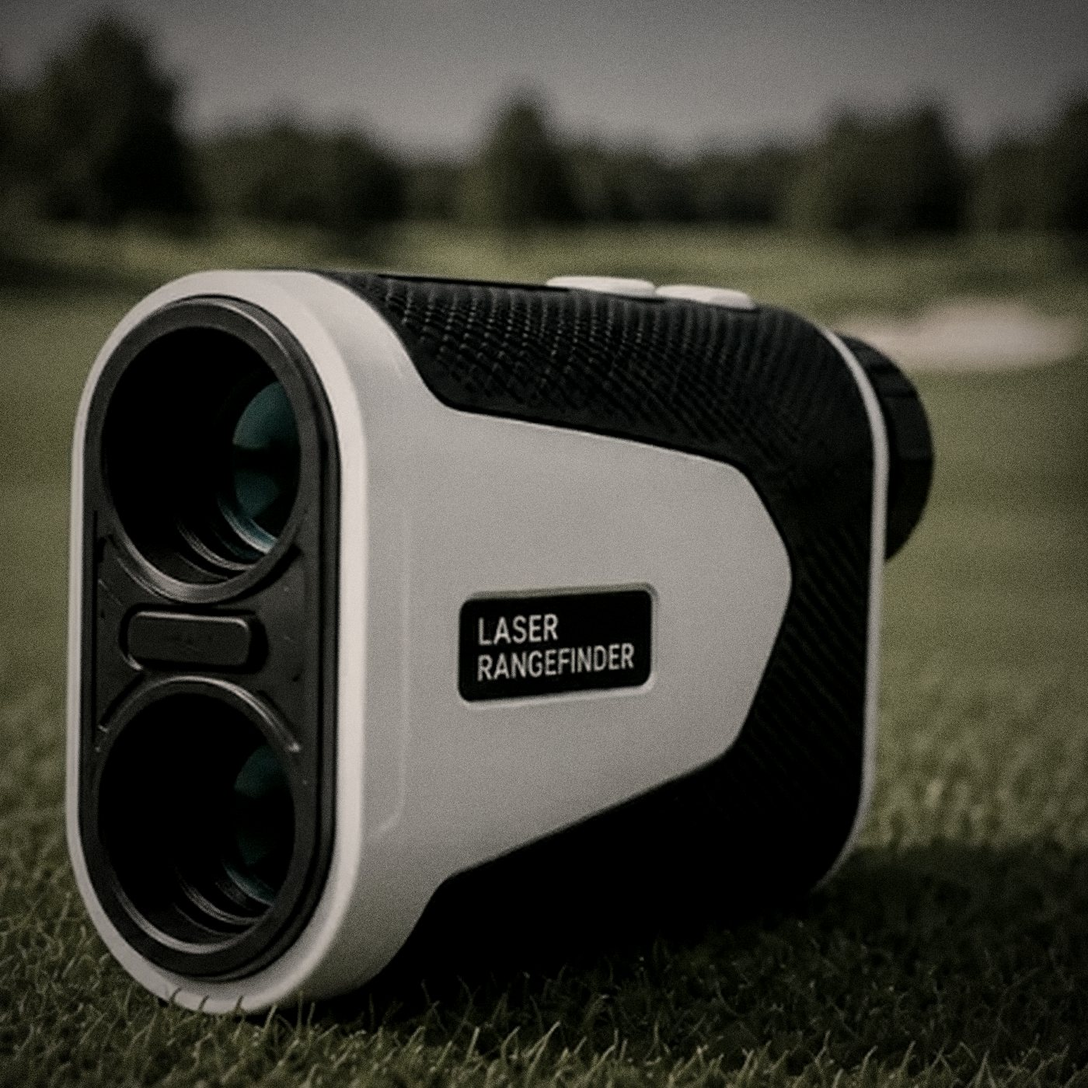
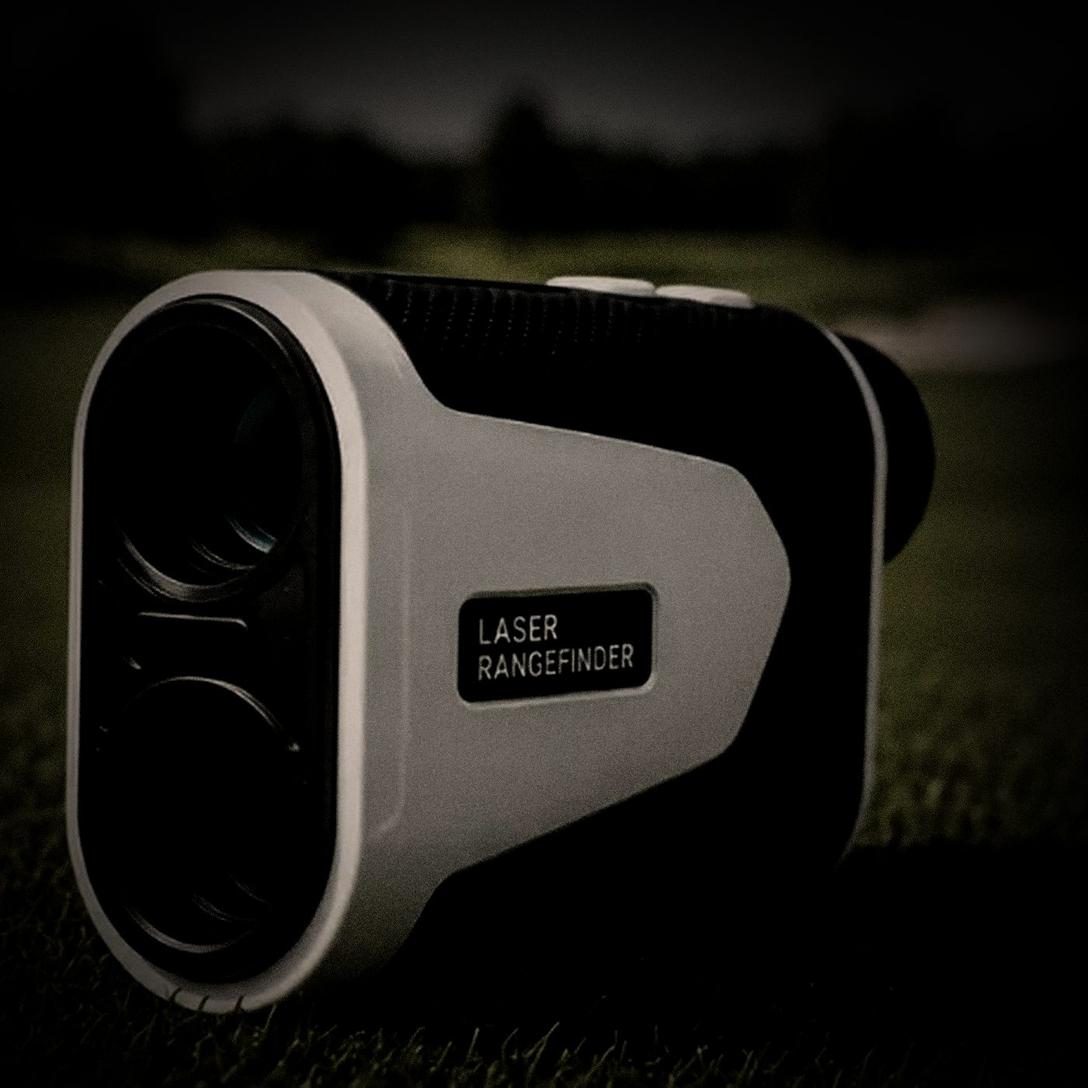
Objects: mehr Schwarzraum, Bilder mit Crushed Blacks, Putter-Zeile neu; Footer-Spruch auf allen Seiten entfernt
Claude-Session: https://claude.ai/code/session_0198X4sySa9u7qvNYtzsHCPp

diff --git a/golf/objects.html b/golf/objects.html
@@ -6,7 +6,7 @@
 <title>Objects · xello golf</title>
 <meta name="robots" content="noindex">
 <meta name="theme-color" content="#082D25">
-<link rel="stylesheet" href="../site.css?v=50093cf2">
+<link rel="stylesheet" href="../site.css?v=62a73574">
 
 </head>
 <body class="dark objects">
@@ -31,7 +31,7 @@
     <figure class="g-piece obj">
       <span class="g-img"><img src="../img/golf-objects-putter.jpg" alt="Schwarzer Putter hinter einem Ball auf dem Grün" style="object-position:50% 50%"></span>
       <p class="obj-name">Der Putter</p>
-      <blockquote class="g-line">Der kürzeste Schlag<br>entscheidet am längsten.</blockquote>
+      <blockquote class="g-line">Ab hier zählt<br>keine Kraft mehr.</blockquote>
       <p class="obj-info"><a href="https://www.pxg.com" target="_blank" rel="noopener">PXG</a></p>
     </figure>
     <figure class="g-piece obj">
@@ -59,7 +59,6 @@
 <nav class="toc" aria-label="Kapitel"><a href="../golf/people.html">01 — People</a><a href="../golf/stories.html">02 — Stories</a><a href="../golf/places.html">03 — Places</a><a href="../golf/still.html" >04 — Still</a><a href="../golf/originals.html">05 — Originals</a><a href="../golf/objects.html" aria-current=page>06 — Objects</a></nav>
 <footer class="foot" id="kontakt">
   <span class="mark x"><svg aria-hidden="true" xmlns="http://www.w3.org/2000/svg" viewBox="104 198 420 368"><path fill="currentColor" fill-rule="evenodd" d="M108.4,562.1C108.2,561.9 108.0,557.9 108.0,553.3L108.0,545.0L114.8,545.0C124.8,545.0 134.4,542.6 144.5,537.6C164.7,527.6 175.4,516.6 222.6,457.0C262.6,406.5 272.3,394.1 273.4,392.3C273.8,391.5 268.9,383.8 261.2,372.8C254.1,362.7 234.0,333.8 216.5,308.5C167.5,237.6 161.5,230.2 148.6,224.1C140.9,220.5 134.0,219.0 124.5,219.0L117.0,219.0L117.0,210.0L117.0,201.0L205.5,200.8C254.2,200.8 294.6,200.7 295.2,200.6C296.2,200.5 296.5,202.9 296.5,209.3L296.5,218.1L289.0,218.5C280.1,218.9 275.2,220.8 271.5,225.2C269.1,228.0 268.8,229.0 269.2,234.1C269.5,238.6 270.5,241.1 274.2,247.1C283.9,262.6 329.8,327.0 331.1,327.0C332.5,327.0 362.4,290.4 379.9,267.3C398.2,243.1 400.1,234.3 389.1,224.8C383.8,220.2 376.6,218.0 367.4,218.0L360.0,218.0L360.0,209.1L360.0,200.1L369.2,200.5C374.3,200.8 405.8,201.0 439.2,201.0L500.0,201.0L500.0,209.5L500.0,218.0L496.1,218.0C490.1,218.0 477.7,220.6 471.0,223.3C452.2,230.9 440.2,242.7 395.5,297.5C385.6,309.6 371.5,326.9 364.0,335.8C356.6,344.8 350.1,352.7 349.6,353.4C349.1,354.2 352.1,359.3 358.7,368.5C364.2,376.2 381.6,401.4 397.5,424.5C428.8,470.0 452.7,503.8 462.6,516.6C477.4,535.7 490.9,543.4 512.0,544.9L520.5,545.5L520.5,553.8L520.5,562.1L424.7,562.3L329.0,562.5L329.0,554.9L329.0,547.3L336.2,546.7C350.3,545.6 359.6,540.0 361.9,531.2C364.3,522.5 361.1,516.2 335.7,479.0C317.9,452.8 295.4,420.3 294.0,418.7C292.7,417.2 234.3,491.2 223.7,507.5C212.9,524.3 213.8,534.3 226.7,540.6C231.8,543.1 233.9,543.5 244.5,544.0L256.5,544.5L256.5,553.3L256.5,562.0L182.7,562.3C142.1,562.4 108.6,562.3 108.4,562.1Z"/></svg></span>
-  <div class="slogan">Feel the moments.</div>
   <nav aria-label="Rechtliches"><a class="crew" href="../golf/collective.html">The Xello Collective</a><span>·</span><a href="mailto:info@xello.de">Kontakt</a><span>·</span><a href="../impressum.html">Impressum</a><span>·</span><a href="../datenschutz.html">Datenschutz</a></nav>
   <a class="home" href="../golf.html">xello golf</a>
 </footer>

diff --git a/golf/originals.html b/golf/originals.html
@@ -5,7 +5,7 @@
 <meta name="viewport" content="width=device-width,initial-scale=1,viewport-fit=cover">
 <title>Originals · xello golf</title>
 <meta name="theme-color" content="#082D25">
-<link rel="stylesheet" href="../site.css?v=50093cf2">
+<link rel="stylesheet" href="../site.css?v=62a73574">
 
 </head>
 <body class="dark">
@@ -31,7 +31,6 @@
 <nav class="toc" aria-label="Kapitel"><a href="../golf/people.html">01 — People</a><a href="../golf/stories.html">02 — Stories</a><a href="../golf/places.html">03 — Places</a><a href="../golf/still.html">04 — Still</a><a href="../golf/originals.html" aria-current=page>05 — Originals</a><a href="../golf/objects.html">06 — Objects</a></nav>
 <footer class="foot" id="kontakt">
   <span class="mark x"><svg aria-hidden="true" xmlns="http://www.w3.org/2000/svg" viewBox="104 198 420 368"><path fill="currentColor" fill-rule="evenodd" d="M108.4,562.1C108.2,561.9 108.0,557.9 108.0,553.3L108.0,545.0L114.8,545.0C124.8,545.0 134.4,542.6 144.5,537.6C164.7,527.6 175.4,516.6 222.6,457.0C262.6,406.5 272.3,394.1 273.4,392.3C273.8,391.5 268.9,383.8 261.2,372.8C254.1,362.7 234.0,333.8 216.5,308.5C167.5,237.6 161.5,230.2 148.6,224.1C140.9,220.5 134.0,219.0 124.5,219.0L117.0,219.0L117.0,210.0L117.0,201.0L205.5,200.8C254.2,200.8 294.6,200.7 295.2,200.6C296.2,200.5 296.5,202.9 296.5,209.3L296.5,218.1L289.0,218.5C280.1,218.9 275.2,220.8 271.5,225.2C269.1,228.0 268.8,229.0 269.2,234.1C269.5,238.6 270.5,241.1 274.2,247.1C283.9,262.6 329.8,327.0 331.1,327.0C332.5,327.0 362.4,290.4 379.9,267.3C398.2,243.1 400.1,234.3 389.1,224.8C383.8,220.2 376.6,218.0 367.4,218.0L360.0,218.0L360.0,209.1L360.0,200.1L369.2,200.5C374.3,200.8 405.8,201.0 439.2,201.0L500.0,201.0L500.0,209.5L500.0,218.0L496.1,218.0C490.1,218.0 477.7,220.6 471.0,223.3C452.2,230.9 440.2,242.7 395.5,297.5C385.6,309.6 371.5,326.9 364.0,335.8C356.6,344.8 350.1,352.7 349.6,353.4C349.1,354.2 352.1,359.3 358.7,368.5C364.2,376.2 381.6,401.4 397.5,424.5C428.8,470.0 452.7,503.8 462.6,516.6C477.4,535.7 490.9,543.4 512.0,544.9L520.5,545.5L520.5,553.8L520.5,562.1L424.7,562.3L329.0,562.5L329.0,554.9L329.0,547.3L336.2,546.7C350.3,545.6 359.6,540.0 361.9,531.2C364.3,522.5 361.1,516.2 335.7,479.0C317.9,452.8 295.4,420.3 294.0,418.7C292.7,417.2 234.3,491.2 223.7,507.5C212.9,524.3 213.8,534.3 226.7,540.6C231.8,543.1 233.9,543.5 244.5,544.0L256.5,544.5L256.5,553.3L256.5,562.0L182.7,562.3C142.1,562.4 108.6,562.3 108.4,562.1Z"/></svg></span>
-  <div class="slogan">Feel the moments.</div>
   <nav aria-label="Rechtliches"><a class="crew" href="../golf/collective.html">The Xello Collective</a><span>·</span><a href="mailto:info@xello.de">Kontakt</a><span>·</span><a href="../impressum.html">Impressum</a><span>·</span><a href="../datenschutz.html">Datenschutz</a></nav>
   <a class="home" href="../golf.html">xello golf</a>
 </footer>

diff --git a/golf/stories.html b/golf/stories.html
@@ -5,7 +5,7 @@
 <meta name="viewport" content="width=device-width,initial-scale=1,viewport-fit=cover">
 <title>Stories · xello golf</title>
 <meta name="theme-color" content="#082D25">
-<link rel="stylesheet" href="../site.css?v=50093cf2">
+<link rel="stylesheet" href="../site.css?v=62a73574">
 
 </head>
 <body>
@@ -28,7 +28,6 @@
 <nav class="toc" aria-label="Kapitel"><a href="../golf/people.html">01 — People</a><a href="../golf/stories.html" aria-current=page>02 — Stories</a><a href="../golf/places.html">03 — Places</a><a href="../golf/still.html">04 — Still</a><a href="../golf/originals.html">05 — Originals</a><a href="../golf/objects.html">06 — Objects</a></nav>
 <footer class="foot" id="kontakt">
   <span class="mark x"><svg aria-hidden="true" xmlns="http://www.w3.org/2000/svg" viewBox="104 198 420 368"><path fill="currentColor" fill-rule="evenodd" d="M108.4,562.1C108.2,561.9 108.0,557.9 108.0,553.3L108.0,545.0L114.8,545.0C124.8,545.0 134.4,542.6 144.5,537.6C164.7,527.6 175.4,516.6 222.6,457.0C262.6,406.5 272.3,394.1 273.4,392.3C273.8,391.5 268.9,383.8 261.2,372.8C254.1,362.7 234.0,333.8 216.5,308.5C167.5,237.6 161.5,230.2 148.6,224.1C140.9,220.5 134.0,219.0 124.5,219.0L117.0,219.0L117.0,210.0L117.0,201.0L205.5,200.8C254.2,200.8 294.6,200.7 295.2,200.6C296.2,200.5 296.5,202.9 296.5,209.3L296.5,218.1L289.0,218.5C280.1,218.9 275.2,220.8 271.5,225.2C269.1,228.0 268.8,229.0 269.2,234.1C269.5,238.6 270.5,241.1 274.2,247.1C283.9,262.6 329.8,327.0 331.1,327.0C332.5,327.0 362.4,290.4 379.9,267.3C398.2,243.1 400.1,234.3 389.1,224.8C383.8,220.2 376.6,218.0 367.4,218.0L360.0,218.0L360.0,209.1L360.0,200.1L369.2,200.5C374.3,200.8 405.8,201.0 439.2,201.0L500.0,201.0L500.0,209.5L500.0,218.0L496.1,218.0C490.1,218.0 477.7,220.6 471.0,223.3C452.2,230.9 440.2,242.7 395.5,297.5C385.6,309.6 371.5,326.9 364.0,335.8C356.6,344.8 350.1,352.7 349.6,353.4C349.1,354.2 352.1,359.3 358.7,368.5C364.2,376.2 381.6,401.4 397.5,424.5C428.8,470.0 452.7,503.8 462.6,516.6C477.4,535.7 490.9,543.4 512.0,544.9L520.5,545.5L520.5,553.8L520.5,562.1L424.7,562.3L329.0,562.5L329.0,554.9L329.0,547.3L336.2,546.7C350.3,545.6 359.6,540.0 361.9,531.2C364.3,522.5 361.1,516.2 335.7,479.0C317.9,452.8 295.4,420.3 294.0,418.7C292.7,417.2 234.3,491.2 223.7,507.5C212.9,524.3 213.8,534.3 226.7,540.6C231.8,543.1 233.9,543.5 244.5,544.0L256.5,544.5L256.5,553.3L256.5,562.0L182.7,562.3C142.1,562.4 108.6,562.3 108.4,562.1Z"/></svg></span>
-  <div class="slogan">Feel the moments.</div>
   <nav aria-label="Rechtliches"><a class="crew" href="../golf/collective.html">The Xello Collective</a><span>·</span><a href="mailto:info@xello.de">Kontakt</a><span>·</span><a href="../impressum.html">Impressum</a><span>·</span><a href="../datenschutz.html">Datenschutz</a></nav>
   <a class="home" href="../golf.html">xello golf</a>
 </footer>

diff --git a/golf/people.html b/golf/people.html
@@ -5,7 +5,7 @@
 <meta name="viewport" content="width=device-width,initial-scale=1,viewport-fit=cover">
 <title>People · xello golf</title>
 <meta name="theme-color" content="#082D25">
-<link rel="stylesheet" href="../site.css?v=50093cf2">
+<link rel="stylesheet" href="../site.css?v=62a73574">
 
 </head>
 <body>
@@ -28,7 +28,6 @@
 <nav class="toc" aria-label="Kapitel"><a href="../golf/people.html" aria-current=page>01 — People</a><a href="../golf/stories.html">02 — Stories</a><a href="../golf/places.html">03 — Places</a><a href="../golf/still.html">04 — Still</a><a href="../golf/originals.html">05 — Originals</a><a href="../golf/objects.html">06 — Objects</a></nav>
 <footer class="foot" id="kontakt">
   <span class="mark x"><svg aria-hidden="true" xmlns="http://www.w3.org/2000/svg" viewBox="104 198 420 368"><path fill="currentColor" fill-rule="evenodd" d="M108.4,562.1C108.2,561.9 108.0,557.9 108.0,553.3L108.0,545.0L114.8,545.0C124.8,545.0 134.4,542.6 144.5,537.6C164.7,527.6 175.4,516.6 222.6,457.0C262.6,406.5 272.3,394.1 273.4,392.3C273.8,391.5 268.9,383.8 261.2,372.8C254.1,362.7 234.0,333.8 216.5,308.5C167.5,237.6 161.5,230.2 148.6,224.1C140.9,220.5 134.0,219.0 124.5,219.0L117.0,219.0L117.0,210.0L117.0,201.0L205.5,200.8C254.2,200.8 294.6,200.7 295.2,200.6C296.2,200.5 296.5,202.9 296.5,209.3L296.5,218.1L289.0,218.5C280.1,218.9 275.2,220.8 271.5,225.2C269.1,228.0 268.8,229.0 269.2,234.1C269.5,238.6 270.5,241.1 274.2,247.1C283.9,262.6 329.8,327.0 331.1,327.0C332.5,327.0 362.4,290.4 379.9,267.3C398.2,243.1 400.1,234.3 389.1,224.8C383.8,220.2 376.6,218.0 367.4,218.0L360.0,218.0L360.0,209.1L360.0,200.1L369.2,200.5C374.3,200.8 405.8,201.0 439.2,201.0L500.0,201.0L500.0,209.5L500.0,218.0L496.1,218.0C490.1,218.0 477.7,220.6 471.0,223.3C452.2,230.9 440.2,242.7 395.5,297.5C385.6,309.6 371.5,326.9 364.0,335.8C356.6,344.8 350.1,352.7 349.6,353.4C349.1,354.2 352.1,359.3 358.7,368.5C364.2,376.2 381.6,401.4 397.5,424.5C428.8,470.0 452.7,503.8 462.6,516.6C477.4,535.7 490.9,543.4 512.0,544.9L520.5,545.5L520.5,553.8L520.5,562.1L424.7,562.3L329.0,562.5L329.0,554.9L329.0,547.3L336.2,546.7C350.3,545.6 359.6,540.0 361.9,531.2C364.3,522.5 361.1,516.2 335.7,479.0C317.9,452.8 295.4,420.3 294.0,418.7C292.7,417.2 234.3,491.2 223.7,507.5C212.9,524.3 213.8,534.3 226.7,540.6C231.8,543.1 233.9,543.5 244.5,544.0L256.5,544.5L256.5,553.3L256.5,562.0L182.7,562.3C142.1,562.4 108.6,562.3 108.4,562.1Z"/></svg></span>
-  <div class="slogan">Feel the moments.</div>
   <nav aria-label="Rechtliches"><a class="crew" href="../golf/collective.html">The Xello Collective</a><span>·</span><a href="mailto:info@xello.de">Kontakt</a><span>·</span><a href="../impressum.html">Impressum</a><span>·</span><a href="../datenschutz.html">Datenschutz</a></nav>
   <a class="home" href="../golf.html">xello golf</a>
 </footer>

diff --git a/golf/places.html b/golf/places.html
@@ -5,7 +5,7 @@
 <meta name="viewport" content="width=device-width,initial-scale=1,viewport-fit=cover">
 <title>Places · xello golf</title>
 <meta name="theme-color" content="#082D25">
-<link rel="stylesheet" href="../site.css?v=50093cf2">
+<link rel="stylesheet" href="../site.css?v=62a73574">
 
 </head>
 <body>
@@ -28,7 +28,6 @@
 <nav class="toc" aria-label="Kapitel"><a href="../golf/people.html">01 — People</a><a href="../golf/stories.html">02 — Stories</a><a href="../golf/places.html" aria-current=page>03 — Places</a><a href="../golf/still.html">04 — Still</a><a href="../golf/originals.html">05 — Originals</a><a href="../golf/objects.html">06 — Objects</a></nav>
 <footer class="foot" id="kontakt">
   <span class="mark x"><svg aria-hidden="true" xmlns="http://www.w3.org/2000/svg" viewBox="104 198 420 368"><path fill="currentColor" fill-rule="evenodd" d="M108.4,562.1C108.2,561.9 108.0,557.9 108.0,553.3L108.0,545.0L114.8,545.0C124.8,545.0 134.4,542.6 144.5,537.6C164.7,527.6 175.4,516.6 222.6,457.0C262.6,406.5 272.3,394.1 273.4,392.3C273.8,391.5 268.9,383.8 261.2,372.8C254.1,362.7 234.0,333.8 216.5,308.5C167.5,237.6 161.5,230.2 148.6,224.1C140.9,220.5 134.0,219.0 124.5,219.0L117.0,219.0L117.0,210.0L117.0,201.0L205.5,200.8C254.2,200.8 294.6,200.7 295.2,200.6C296.2,200.5 296.5,202.9 296.5,209.3L296.5,218.1L289.0,218.5C280.1,218.9 275.2,220.8 271.5,225.2C269.1,228.0 268.8,229.0 269.2,234.1C269.5,238.6 270.5,241.1 274.2,247.1C283.9,262.6 329.8,327.0 331.1,327.0C332.5,327.0 362.4,290.4 379.9,267.3C398.2,243.1 400.1,234.3 389.1,224.8C383.8,220.2 376.6,218.0 367.4,218.0L360.0,218.0L360.0,209.1L360.0,200.1L369.2,200.5C374.3,200.8 405.8,201.0 439.2,201.0L500.0,201.0L500.0,209.5L500.0,218.0L496.1,218.0C490.1,218.0 477.7,220.6 471.0,223.3C452.2,230.9 440.2,242.7 395.5,297.5C385.6,309.6 371.5,326.9 364.0,335.8C356.6,344.8 350.1,352.7 349.6,353.4C349.1,354.2 352.1,359.3 358.7,368.5C364.2,376.2 381.6,401.4 397.5,424.5C428.8,470.0 452.7,503.8 462.6,516.6C477.4,535.7 490.9,543.4 512.0,544.9L520.5,545.5L520.5,553.8L520.5,562.1L424.7,562.3L329.0,562.5L329.0,554.9L329.0,547.3L336.2,546.7C350.3,545.6 359.6,540.0 361.9,531.2C364.3,522.5 361.1,516.2 335.7,479.0C317.9,452.8 295.4,420.3 294.0,418.7C292.7,417.2 234.3,491.2 223.7,507.5C212.9,524.3 213.8,534.3 226.7,540.6C231.8,543.1 233.9,543.5 244.5,544.0L256.5,544.5L256.5,553.3L256.5,562.0L182.7,562.3C142.1,562.4 108.6,562.3 108.4,562.1Z"/></svg></span>
-  <div class="slogan">Feel the moments.</div>
   <nav aria-label="Rechtliches"><a class="crew" href="../golf/collective.html">The Xello Collective</a><span>·</span><a href="mailto:info@xello.de">Kontakt</a><span>·</span><a href="../impressum.html">Impressum</a><span>·</span><a href="../datenschutz.html">Datenschutz</a></nav>
   <a class="home" href="../golf.html">xello golf</a>
 </footer>

diff --git a/golf/still.html b/golf/still.html
@@ -5,7 +5,7 @@
 <meta name="viewport" content="width=device-width,initial-scale=1,viewport-fit=cover">
 <title>Still · xello golf</title>
 <meta name="theme-color" content="#082D25">
-<link rel="stylesheet" href="../site.css?v=50093cf2">
+<link rel="stylesheet" href="../site.css?v=62a73574">
 
 </head>
 <body>
@@ -28,7 +28,6 @@
 <nav class="toc" aria-label="Kapitel"><a href="../golf/people.html">01 — People</a><a href="../golf/stories.html">02 — Stories</a><a href="../golf/places.html">03 — Places</a><a href="../golf/still.html" aria-current=page>04 — Still</a><a href="../golf/originals.html">05 — Originals</a><a href="../golf/objects.html">06 — Objects</a></nav>
 <footer class="foot" id="kontakt">
   <span class="mark x"><svg aria-hidden="true" xmlns="http://www.w3.org/2000/svg" viewBox="104 198 420 368"><path fill="currentColor" fill-rule="evenodd" d="M108.4,562.1C108.2,561.9 108.0,557.9 108.0,553.3L108.0,545.0L114.8,545.0C124.8,545.0 134.4,542.6 144.5,537.6C164.7,527.6 175.4,516.6 222.6,457.0C262.6,406.5 272.3,394.1 273.4,392.3C273.8,391.5 268.9,383.8 261.2,372.8C254.1,362.7 234.0,333.8 216.5,308.5C167.5,237.6 161.5,230.2 148.6,224.1C140.9,220.5 134.0,219.0 124.5,219.0L117.0,219.0L117.0,210.0L117.0,201.0L205.5,200.8C254.2,200.8 294.6,200.7 295.2,200.6C296.2,200.5 296.5,202.9 296.5,209.3L296.5,218.1L289.0,218.5C280.1,218.9 275.2,220.8 271.5,225.2C269.1,228.0 268.8,229.0 269.2,234.1C269.5,238.6 270.5,241.1 274.2,247.1C283.9,262.6 329.8,327.0 331.1,327.0C332.5,327.0 362.4,290.4 379.9,267.3C398.2,243.1 400.1,234.3 389.1,224.8C383.8,220.2 376.6,218.0 367.4,218.0L360.0,218.0L360.0,209.1L360.0,200.1L369.2,200.5C374.3,200.8 405.8,201.0 439.2,201.0L500.0,201.0L500.0,209.5L500.0,218.0L496.1,218.0C490.1,218.0 477.7,220.6 471.0,223.3C452.2,230.9 440.2,242.7 395.5,297.5C385.6,309.6 371.5,326.9 364.0,335.8C356.6,344.8 350.1,352.7 349.6,353.4C349.1,354.2 352.1,359.3 358.7,368.5C364.2,376.2 381.6,401.4 397.5,424.5C428.8,470.0 452.7,503.8 462.6,516.6C477.4,535.7 490.9,543.4 512.0,544.9L520.5,545.5L520.5,553.8L520.5,562.1L424.7,562.3L329.0,562.5L329.0,554.9L329.0,547.3L336.2,546.7C350.3,545.6 359.6,540.0 361.9,531.2C364.3,522.5 361.1,516.2 335.7,479.0C317.9,452.8 295.4,420.3 294.0,418.7C292.7,417.2 234.3,491.2 223.7,507.5C212.9,524.3 213.8,534.3 226.7,540.6C231.8,543.1 233.9,543.5 244.5,544.0L256.5,544.5L256.5,553.3L256.5,562.0L182.7,562.3C142.1,562.4 108.6,562.3 108.4,562.1Z"/></svg></span>
-  <div class="slogan">Feel the moments.</div>
   <nav aria-label="Rechtliches"><a class="crew" href="../golf/collective.html">The Xello Collective</a><span>·</span><a href="mailto:info@xello.de">Kontakt</a><span>·</span><a href="../impressum.html">Impressum</a><span>·</span><a href="../datenschutz.html">Datenschutz</a></nav>
   <a class="home" href="../golf.html">xello golf</a>
 </footer>

diff --git a/golf/collective.html b/golf/collective.html
@@ -5,7 +5,7 @@
 <meta name="viewport" content="width=device-width,initial-scale=1,viewport-fit=cover">
 <title>The Xello Collective · xello golf</title>
 <meta name="theme-color" content="#082D25">
-<link rel="stylesheet" href="../site.css?v=50093cf2">
+<link rel="stylesheet" href="../site.css?v=62a73574">
 
 </head>
 <body>
@@ -41,7 +41,6 @@
 <nav class="toc" aria-label="Kapitel"><a href="../golf/people.html">01 — People</a><a href="../golf/stories.html">02 — Stories</a><a href="../golf/places.html">03 — Places</a><a href="../golf/still.html" >04 — Still</a><a href="../golf/originals.html">05 — Originals</a><a href="../golf/objects.html">06 — Objects</a></nav>
 <footer class="foot" id="kontakt">
   <span class="mark x"><svg aria-hidden="true" xmlns="http://www.w3.org/2000/svg" viewBox="104 198 420 368"><path fill="currentColor" fill-rule="evenodd" d="M108.4,562.1C108.2,561.9 108.0,557.9 108.0,553.3L108.0,545.0L114.8,545.0C124.8,545.0 134.4,542.6 144.5,537.6C164.7,527.6 175.4,516.6 222.6,457.0C262.6,406.5 272.3,394.1 273.4,392.3C273.8,391.5 268.9,383.8 261.2,372.8C254.1,362.7 234.0,333.8 216.5,308.5C167.5,237.6 161.5,230.2 148.6,224.1C140.9,220.5 134.0,219.0 124.5,219.0L117.0,219.0L117.0,210.0L117.0,201.0L205.5,200.8C254.2,200.8 294.6,200.7 295.2,200.6C296.2,200.5 296.5,202.9 296.5,209.3L296.5,218.1L289.0,218.5C280.1,218.9 275.2,220.8 271.5,225.2C269.1,228.0 268.8,229.0 269.2,234.1C269.5,238.6 270.5,241.1 274.2,247.1C283.9,262.6 329.8,327.0 331.1,327.0C332.5,327.0 362.4,290.4 379.9,267.3C398.2,243.1 400.1,234.3 389.1,224.8C383.8,220.2 376.6,218.0 367.4,218.0L360.0,218.0L360.0,209.1L360.0,200.1L369.2,200.5C374.3,200.8 405.8,201.0 439.2,201.0L500.0,201.0L500.0,209.5L500.0,218.0L496.1,218.0C490.1,218.0 477.7,220.6 471.0,223.3C452.2,230.9 440.2,242.7 395.5,297.5C385.6,309.6 371.5,326.9 364.0,335.8C356.6,344.8 350.1,352.7 349.6,353.4C349.1,354.2 352.1,359.3 358.7,368.5C364.2,376.2 381.6,401.4 397.5,424.5C428.8,470.0 452.7,503.8 462.6,516.6C477.4,535.7 490.9,543.4 512.0,544.9L520.5,545.5L520.5,553.8L520.5,562.1L424.7,562.3L329.0,562.5L329.0,554.9L329.0,547.3L336.2,546.7C350.3,545.6 359.6,540.0 361.9,531.2C364.3,522.5 361.1,516.2 335.7,479.0C317.9,452.8 295.4,420.3 294.0,418.7C292.7,417.2 234.3,491.2 223.7,507.5C212.9,524.3 213.8,534.3 226.7,540.6C231.8,543.1 233.9,543.5 244.5,544.0L256.5,544.5L256.5,553.3L256.5,562.0L182.7,562.3C142.1,562.4 108.6,562.3 108.4,562.1Z"/></svg></span>
-  <div class="slogan">Feel the moments.</div>
   <nav aria-label="Rechtliches"><a class="crew" href="../golf/collective.html">The Xello Collective</a><span>·</span><a href="mailto:info@xello.de">Kontakt</a><span>·</span><a href="../impressum.html">Impressum</a><span>·</span><a href="../datenschutz.html">Datenschutz</a></nav>
   <a class="home" href="../golf.html">xello golf</a>
 </footer>

diff --git a/golf.html b/golf.html
@@ -5,7 +5,7 @@
 <meta name="viewport" content="width=device-width,initial-scale=1,viewport-fit=cover">
 <title>xello golf · Between the shots.</title>
 <meta name="theme-color" content="#082D25">
-<link rel="stylesheet" href="site.css?v=50093cf2">
+<link rel="stylesheet" href="site.css?v=62a73574">
 <style>.cover .bg picture{display:block;height:100%}.cover .bg img{--ox:50%;--oy:58%;--z:1.02}.cover .bg::after{background:linear-gradient(180deg,rgba(5,5,5,.58) 0%,rgba(5,5,5,.46) 20%,rgba(5,5,5,.3) 32%,rgba(5,5,5,0) 50%,rgba(5,5,5,0) 60%,rgba(5,5,5,.55) 100%)}@media(min-width:860px){.cover .bg img{--ox:50%;--oy:55%;--z:1}}</style>
 </head>
 <body>
@@ -51,7 +51,6 @@
 </div></div>
 <footer class="foot" id="kontakt">
   <span class="mark x"><svg aria-hidden="true" xmlns="http://www.w3.org/2000/svg" viewBox="104 198 420 368"><path fill="currentColor" fill-rule="evenodd" d="M108.4,562.1C108.2,561.9 108.0,557.9 108.0,553.3L108.0,545.0L114.8,545.0C124.8,545.0 134.4,542.6 144.5,537.6C164.7,527.6 175.4,516.6 222.6,457.0C262.6,406.5 272.3,394.1 273.4,392.3C273.8,391.5 268.9,383.8 261.2,372.8C254.1,362.7 234.0,333.8 216.5,308.5C167.5,237.6 161.5,230.2 148.6,224.1C140.9,220.5 134.0,219.0 124.5,219.0L117.0,219.0L117.0,210.0L117.0,201.0L205.5,200.8C254.2,200.8 294.6,200.7 295.2,200.6C296.2,200.5 296.5,202.9 296.5,209.3L296.5,218.1L289.0,218.5C280.1,218.9 275.2,220.8 271.5,225.2C269.1,228.0 268.8,229.0 269.2,234.1C269.5,238.6 270.5,241.1 274.2,247.1C283.9,262.6 329.8,327.0 331.1,327.0C332.5,327.0 362.4,290.4 379.9,267.3C398.2,243.1 400.1,234.3 389.1,224.8C383.8,220.2 376.6,218.0 367.4,218.0L360.0,218.0L360.0,209.1L360.0,200.1L369.2,200.5C374.3,200.8 405.8,201.0 439.2,201.0L500.0,201.0L500.0,209.5L500.0,218.0L496.1,218.0C490.1,218.0 477.7,220.6 471.0,223.3C452.2,230.9 440.2,242.7 395.5,297.5C385.6,309.6 371.5,326.9 364.0,335.8C356.6,344.8 350.1,352.7 349.6,353.4C349.1,354.2 352.1,359.3 358.7,368.5C364.2,376.2 381.6,401.4 397.5,424.5C428.8,470.0 452.7,503.8 462.6,516.6C477.4,535.7 490.9,543.4 512.0,544.9L520.5,545.5L520.5,553.8L520.5,562.1L424.7,562.3L329.0,562.5L329.0,554.9L329.0,547.3L336.2,546.7C350.3,545.6 359.6,540.0 361.9,531.2C364.3,522.5 361.1,516.2 335.7,479.0C317.9,452.8 295.4,420.3 294.0,418.7C292.7,417.2 234.3,491.2 223.7,507.5C212.9,524.3 213.8,534.3 226.7,540.6C231.8,543.1 233.9,543.5 244.5,544.0L256.5,544.5L256.5,553.3L256.5,562.0L182.7,562.3C142.1,562.4 108.6,562.3 108.4,562.1Z"/></svg></span>
-  <div class="slogan">Feel the moments.</div>
   <nav aria-label="Rechtliches"><a class="crew" href="golf/collective.html">The Xello Collective</a><span>·</span><a href="mailto:info@xello.de">Kontakt</a><span>·</span><a href="impressum.html">Impressum</a><span>·</span><a href="datenschutz.html">Datenschutz</a></nav>
   <a class="home" href="index.html">xello</a>
 </footer>

diff --git a/life/stories.html b/life/stories.html
@@ -5,7 +5,7 @@
 <meta name="viewport" content="width=device-width,initial-scale=1,viewport-fit=cover">
 <title>Stories · xello life</title>
 <meta name="theme-color" content="#082D25">
-<link rel="stylesheet" href="../site.css?v=50093cf2">
+<link rel="stylesheet" href="../site.css?v=62a73574">
 
 </head>
 <body>
@@ -28,7 +28,6 @@
 <nav class="toc" aria-label="Kapitel"><a href="../life/people.html">01 — People</a><a href="../life/stories.html" aria-current=page>02 — Stories</a><a href="../life/places.html">03 — Places</a><a href="../life/still.html">04 — Still</a></nav>
 <footer class="foot" id="kontakt">
   <span class="mark x"><svg aria-hidden="true" xmlns="http://www.w3.org/2000/svg" viewBox="104 198 420 368"><path fill="currentColor" fill-rule="evenodd" d="M108.4,562.1C108.2,561.9 108.0,557.9 108.0,553.3L108.0,545.0L114.8,545.0C124.8,545.0 134.4,542.6 144.5,537.6C164.7,527.6 175.4,516.6 222.6,457.0C262.6,406.5 272.3,394.1 273.4,392.3C273.8,391.5 268.9,383.8 261.2,372.8C254.1,362.7 234.0,333.8 216.5,308.5C167.5,237.6 161.5,230.2 148.6,224.1C140.9,220.5 134.0,219.0 124.5,219.0L117.0,219.0L117.0,210.0L117.0,201.0L205.5,200.8C254.2,200.8 294.6,200.7 295.2,200.6C296.2,200.5 296.5,202.9 296.5,209.3L296.5,218.1L289.0,218.5C280.1,218.9 275.2,220.8 271.5,225.2C269.1,228.0 268.8,229.0 269.2,234.1C269.5,238.6 270.5,241.1 274.2,247.1C283.9,262.6 329.8,327.0 331.1,327.0C332.5,327.0 362.4,290.4 379.9,267.3C398.2,243.1 400.1,234.3 389.1,224.8C383.8,220.2 376.6,218.0 367.4,218.0L360.0,218.0L360.0,209.1L360.0,200.1L369.2,200.5C374.3,200.8 405.8,201.0 439.2,201.0L500.0,201.0L500.0,209.5L500.0,218.0L496.1,218.0C490.1,218.0 477.7,220.6 471.0,223.3C452.2,230.9 440.2,242.7 395.5,297.5C385.6,309.6 371.5,326.9 364.0,335.8C356.6,344.8 350.1,352.7 349.6,353.4C349.1,354.2 352.1,359.3 358.7,368.5C364.2,376.2 381.6,401.4 397.5,424.5C428.8,470.0 452.7,503.8 462.6,516.6C477.4,535.7 490.9,543.4 512.0,544.9L520.5,545.5L520.5,553.8L520.5,562.1L424.7,562.3L329.0,562.5L329.0,554.9L329.0,547.3L336.2,546.7C350.3,545.6 359.6,540.0 361.9,531.2C364.3,522.5 361.1,516.2 335.7,479.0C317.9,452.8 295.4,420.3 294.0,418.7C292.7,417.2 234.3,491.2 223.7,507.5C212.9,524.3 213.8,534.3 226.7,540.6C231.8,543.1 233.9,543.5 244.5,544.0L256.5,544.5L256.5,553.3L256.5,562.0L182.7,562.3C142.1,562.4 108.6,562.3 108.4,562.1Z"/></svg></span>
-  <div class="slogan">Feel the moments.</div>
   <nav aria-label="Rechtliches"><a href="mailto:info@xello.de">Kontakt</a><span>·</span><a href="../impressum.html">Impressum</a><span>·</span><a href="../datenschutz.html">Datenschutz</a></nav>
   <a class="home" href="../life.html">xello life</a>
 </footer>

diff --git a/life/people.html b/life/people.html
@@ -5,7 +5,7 @@
 <meta name="viewport" content="width=device-width,initial-scale=1,viewport-fit=cover">
 <title>People · xello life</title>
 <meta name="theme-color" content="#082D25">
-<link rel="stylesheet" href="../site.css?v=50093cf2">
+<link rel="stylesheet" href="../site.css?v=62a73574">
 
 </head>
 <body>
@@ -28,7 +28,6 @@
 <nav class="toc" aria-label="Kapitel"><a href="../life/people.html" aria-current=page>01 — People</a><a href="../life/stories.html">02 — Stories</a><a href="../life/places.html">03 — Places</a><a href="../life/still.html">04 — Still</a></nav>
 <footer class="foot" id="kontakt">
   <span class="mark x"><svg aria-hidden="true" xmlns="http://www.w3.org/2000/svg" viewBox="104 198 420 368"><path fill="currentColor" fill-rule="evenodd" d="M108.4,562.1C108.2,561.9 108.0,557.9 108.0,553.3L108.0,545.0L114.8,545.0C124.8,545.0 134.4,542.6 144.5,537.6C164.7,527.6 175.4,516.6 222.6,457.0C262.6,406.5 272.3,394.1 273.4,392.3C273.8,391.5 268.9,383.8 261.2,372.8C254.1,362.7 234.0,333.8 216.5,308.5C167.5,237.6 161.5,230.2 148.6,224.1C140.9,220.5 134.0,219.0 124.5,219.0L117.0,219.0L117.0,210.0L117.0,201.0L205.5,200.8C254.2,200.8 294.6,200.7 295.2,200.6C296.2,200.5 296.5,202.9 296.5,209.3L296.5,218.1L289.0,218.5C280.1,218.9 275.2,220.8 271.5,225.2C269.1,228.0 268.8,229.0 269.2,234.1C269.5,238.6 270.5,241.1 274.2,247.1C283.9,262.6 329.8,327.0 331.1,327.0C332.5,327.0 362.4,290.4 379.9,267.3C398.2,243.1 400.1,234.3 389.1,224.8C383.8,220.2 376.6,218.0 367.4,218.0L360.0,218.0L360.0,209.1L360.0,200.1L369.2,200.5C374.3,200.8 405.8,201.0 439.2,201.0L500.0,201.0L500.0,209.5L500.0,218.0L496.1,218.0C490.1,218.0 477.7,220.6 471.0,223.3C452.2,230.9 440.2,242.7 395.5,297.5C385.6,309.6 371.5,326.9 364.0,335.8C356.6,344.8 350.1,352.7 349.6,353.4C349.1,354.2 352.1,359.3 358.7,368.5C364.2,376.2 381.6,401.4 397.5,424.5C428.8,470.0 452.7,503.8 462.6,516.6C477.4,535.7 490.9,543.4 512.0,544.9L520.5,545.5L520.5,553.8L520.5,562.1L424.7,562.3L329.0,562.5L329.0,554.9L329.0,547.3L336.2,546.7C350.3,545.6 359.6,540.0 361.9,531.2C364.3,522.5 361.1,516.2 335.7,479.0C317.9,452.8 295.4,420.3 294.0,418.7C292.7,417.2 234.3,491.2 223.7,507.5C212.9,524.3 213.8,534.3 226.7,540.6C231.8,543.1 233.9,543.5 244.5,544.0L256.5,544.5L256.5,553.3L256.5,562.0L182.7,562.3C142.1,562.4 108.6,562.3 108.4,562.1Z"/></svg></span>
-  <div class="slogan">Feel the moments.</div>
   <nav aria-label="Rechtliches"><a href="mailto:info@xello.de">Kontakt</a><span>·</span><a href="../impressum.html">Impressum</a><span>·</span><a href="../datenschutz.html">Datenschutz</a></nav>
   <a class="home" href="../life.html">xello life</a>
 </footer>

diff --git a/life/places.html b/life/places.html
@@ -5,7 +5,7 @@
 <meta name="viewport" content="width=device-width,initial-scale=1,viewport-fit=cover">
 <title>Places · xello life</title>
 <meta name="theme-color" content="#082D25">
-<link rel="stylesheet" href="../site.css?v=50093cf2">
+<link rel="stylesheet" href="../site.css?v=62a73574">
 
 </head>
 <body>
@@ -28,7 +28,6 @@
 <nav class="toc" aria-label="Kapitel"><a href="../life/people.html">01 — People</a><a href="../life/stories.html">02 — Stories</a><a href="../life/places.html" aria-current=page>03 — Places</a><a href="../life/still.html">04 — Still</a></nav>
 <footer class="foot" id="kontakt">
   <span class="mark x"><svg aria-hidden="true" xmlns="http://www.w3.org/2000/svg" viewBox="104 198 420 368"><path fill="currentColor" fill-rule="evenodd" d="M108.4,562.1C108.2,561.9 108.0,557.9 108.0,553.3L108.0,545.0L114.8,545.0C124.8,545.0 134.4,542.6 144.5,537.6C164.7,527.6 175.4,516.6 222.6,457.0C262.6,406.5 272.3,394.1 273.4,392.3C273.8,391.5 268.9,383.8 261.2,372.8C254.1,362.7 234.0,333.8 216.5,308.5C167.5,237.6 161.5,230.2 148.6,224.1C140.9,220.5 134.0,219.0 124.5,219.0L117.0,219.0L117.0,210.0L117.0,201.0L205.5,200.8C254.2,200.8 294.6,200.7 295.2,200.6C296.2,200.5 296.5,202.9 296.5,209.3L296.5,218.1L289.0,218.5C280.1,218.9 275.2,220.8 271.5,225.2C269.1,228.0 268.8,229.0 269.2,234.1C269.5,238.6 270.5,241.1 274.2,247.1C283.9,262.6 329.8,327.0 331.1,327.0C332.5,327.0 362.4,290.4 379.9,267.3C398.2,243.1 400.1,234.3 389.1,224.8C383.8,220.2 376.6,218.0 367.4,218.0L360.0,218.0L360.0,209.1L360.0,200.1L369.2,200.5C374.3,200.8 405.8,201.0 439.2,201.0L500.0,201.0L500.0,209.5L500.0,218.0L496.1,218.0C490.1,218.0 477.7,220.6 471.0,223.3C452.2,230.9 440.2,242.7 395.5,297.5C385.6,309.6 371.5,326.9 364.0,335.8C356.6,344.8 350.1,352.7 349.6,353.4C349.1,354.2 352.1,359.3 358.7,368.5C364.2,376.2 381.6,401.4 397.5,424.5C428.8,470.0 452.7,503.8 462.6,516.6C477.4,535.7 490.9,543.4 512.0,544.9L520.5,545.5L520.5,553.8L520.5,562.1L424.7,562.3L329.0,562.5L329.0,554.9L329.0,547.3L336.2,546.7C350.3,545.6 359.6,540.0 361.9,531.2C364.3,522.5 361.1,516.2 335.7,479.0C317.9,452.8 295.4,420.3 294.0,418.7C292.7,417.2 234.3,491.2 223.7,507.5C212.9,524.3 213.8,534.3 226.7,540.6C231.8,543.1 233.9,543.5 244.5,544.0L256.5,544.5L256.5,553.3L256.5,562.0L182.7,562.3C142.1,562.4 108.6,562.3 108.4,562.1Z"/></svg></span>
-  <div class="slogan">Feel the moments.</div>
   <nav aria-label="Rechtliches"><a href="mailto:info@xello.de">Kontakt</a><span>·</span><a href="../impressum.html">Impressum</a><span>·</span><a href="../datenschutz.html">Datenschutz</a></nav>
   <a class="home" href="../life.html">xello life</a>
 </footer>

diff --git a/life/still.html b/life/still.html
@@ -5,7 +5,7 @@
 <meta name="viewport" content="width=device-width,initial-scale=1,viewport-fit=cover">
 <title>Still · xello life</title>
 <meta name="theme-color" content="#082D25">
-<link rel="stylesheet" href="../site.css?v=50093cf2">
+<link rel="stylesheet" href="../site.css?v=62a73574">
 
 </head>
 <body>
@@ -28,7 +28,6 @@
 <nav class="toc" aria-label="Kapitel"><a href="../life/people.html">01 — People</a><a href="../life/stories.html">02 — Stories</a><a href="../life/places.html">03 — Places</a><a href="../life/still.html" aria-current=page>04 — Still</a></nav>
 <footer class="foot" id="kontakt">
   <span class="mark x"><svg aria-hidden="true" xmlns="http://www.w3.org/2000/svg" viewBox="104 198 420 368"><path fill="currentColor" fill-rule="evenodd" d="M108.4,562.1C108.2,561.9 108.0,557.9 108.0,553.3L108.0,545.0L114.8,545.0C124.8,545.0 134.4,542.6 144.5,537.6C164.7,527.6 175.4,516.6 222.6,457.0C262.6,406.5 272.3,394.1 273.4,392.3C273.8,391.5 268.9,383.8 261.2,372.8C254.1,362.7 234.0,333.8 216.5,308.5C167.5,237.6 161.5,230.2 148.6,224.1C140.9,220.5 134.0,219.0 124.5,219.0L117.0,219.0L117.0,210.0L117.0,201.0L205.5,200.8C254.2,200.8 294.6,200.7 295.2,200.6C296.2,200.5 296.5,202.9 296.5,209.3L296.5,218.1L289.0,218.5C280.1,218.9 275.2,220.8 271.5,225.2C269.1,228.0 268.8,229.0 269.2,234.1C269.5,238.6 270.5,241.1 274.2,247.1C283.9,262.6 329.8,327.0 331.1,327.0C332.5,327.0 362.4,290.4 379.9,267.3C398.2,243.1 400.1,234.3 389.1,224.8C383.8,220.2 376.6,218.0 367.4,218.0L360.0,218.0L360.0,209.1L360.0,200.1L369.2,200.5C374.3,200.8 405.8,201.0 439.2,201.0L500.0,201.0L500.0,209.5L500.0,218.0L496.1,218.0C490.1,218.0 477.7,220.6 471.0,223.3C452.2,230.9 440.2,242.7 395.5,297.5C385.6,309.6 371.5,326.9 364.0,335.8C356.6,344.8 350.1,352.7 349.6,353.4C349.1,354.2 352.1,359.3 358.7,368.5C364.2,376.2 381.6,401.4 397.5,424.5C428.8,470.0 452.7,503.8 462.6,516.6C477.4,535.7 490.9,543.4 512.0,544.9L520.5,545.5L520.5,553.8L520.5,562.1L424.7,562.3L329.0,562.5L329.0,554.9L329.0,547.3L336.2,546.7C350.3,545.6 359.6,540.0 361.9,531.2C364.3,522.5 361.1,516.2 335.7,479.0C317.9,452.8 295.4,420.3 294.0,418.7C292.7,417.2 234.3,491.2 223.7,507.5C212.9,524.3 213.8,534.3 226.7,540.6C231.8,543.1 233.9,543.5 244.5,544.0L256.5,544.5L256.5,553.3L256.5,562.0L182.7,562.3C142.1,562.4 108.6,562.3 108.4,562.1Z"/></svg></span>
-  <div class="slogan">Feel the moments.</div>
   <nav aria-label="Rechtliches"><a href="mailto:info@xello.de">Kontakt</a><span>·</span><a href="../impressum.html">Impressum</a><span>·</span><a href="../datenschutz.html">Datenschutz</a></nav>
   <a class="home" href="../life.html">xello life</a>
 </footer>
